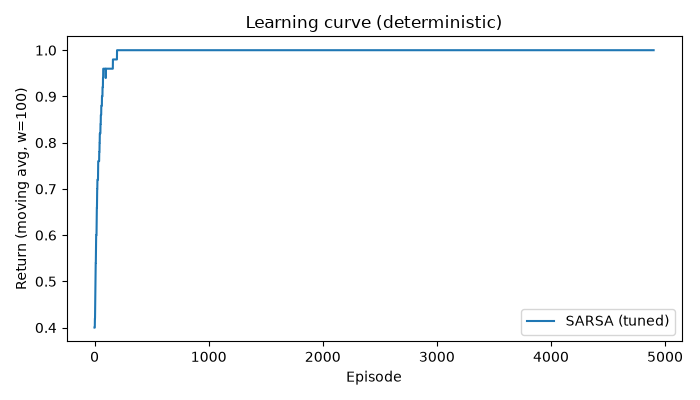
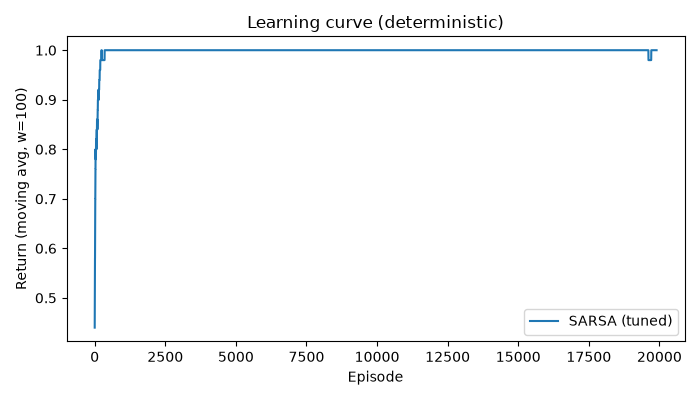
Slight Modifications + Final Commit

diff --git a/assignment1/algorithms/sarsa.py b/assignment1/algorithms/sarsa.py
@@ -4,81 +4,95 @@ from pathlib import Path
 import numpy as np
 import matplotlib.pyplot as plt
 
-# env.py and tools.py live in assignment1/ (parent of algorithms/); env.py itself does `import tools`
+# Imports setups
 sys.path.insert(0, str(Path(__file__).resolve().parent.parent))
-sys.path.insert(0, str(Path(__file__).resolve().parent))  # tuning.py lives next to this file
+sys.path.insert(0, str(Path(__file__).resolve().parent))
 
 import tools
 from env import GridworldEnv
 from tuning import tune as optuna_tune, td_space
 
-GAMMA_EVAL = 0.99  # fixed discount used to SCORE policies (shorter paths score higher)
+GAMMA_EVAL = 0.99  # fixed discount used to SCORE policies
 
 
-def eps_greedy(Q, s, eps):
-    """epsilon-greedy action from Q (random tie-breaking among greedy actions)."""
-    if np.random.rand() < eps:
-        return np.random.randint(Q.shape[1])
-    best = np.flatnonzero(np.isclose(Q[s], Q[s].max()))
-    return int(np.random.choice(best))
+def eps_greedy_fast(Q_s, eps, n_actions, rng):
+    """Fast epsilon-greedy action selection with minimal allocations."""
+    if rng.random() < eps:
+        return rng.integers(n_actions)
+    # Fast greedy selection with tie-breaking
+    max_val = Q_s.max()
+    best = np.flatnonzero(np.isclose(Q_s, max_val))
+    return int(rng.choice(best)) if len(best) > 1 else int(best[0])
 
 
-def sarsa(env, n_episodes=5000, alpha=0.1, gamma=0.99, eps=1.0,
+def sarsa(env, n_episodes=20000, alpha=0.1, gamma=0.99, eps=1.0,
           eps_min=0.05, eps_decay=0.999, max_steps=200, seed=0):
-    """On-policy TD control: q(s,a) <- q(s,a) + alpha [r + gamma q(s',a') - q(s,a)]."""
-    Q = np.zeros((env.n_states, env.n_actions))
-    returns = np.zeros(n_episodes)
-    env.reset(seed=seed)
+    """On-policy TD control."""
+    rng = np.random.default_rng(seed)
+    n_states, n_actions = env.n_states, env.n_actions
+    Q = np.zeros((n_states, n_actions), dtype=np.float64)
+    returns = np.zeros(n_episodes, dtype=np.float64)
 
     for ep in range(n_episodes):
-        s, _ = env.reset()
-        a = eps_greedy(Q, s, eps)
+        s, _ = env.reset(seed=int(rng.integers(1e6)) if ep == 0 else None)
+        a = eps_greedy_fast(Q[s], eps, n_actions, rng)
         G = 0.0
-        for _ in range(max_steps):
+
+        for step in range(max_steps):
             s2, r, term, trunc, _ = env.step(a)
             G += r
-            if term:
-                target = r  # q(terminal, .) = 0
-                Q[s, a] += alpha * (target - Q[s, a])
+            
+            if term or trunc:
+                # Terminal state target is r (Q(terminal, .) = 0)
+                Q[s, a] += alpha * (r - Q[s, a])
                 break
-            a2 = eps_greedy(Q, s2, eps)
-            target = r + gamma * Q[s2, a2]
-            Q[s, a] += alpha * (target - Q[s, a])
+
+            a2 = eps_greedy_fast(Q[s2], eps, n_actions, rng)
+            Q[s, a] += alpha * (r + gamma * Q[s2, a2] - Q[s, a])
             s, a = s2, a2
+
         returns[ep] = G
         eps = max(eps_min, eps * eps_decay)
+
     return Q, returns
 
 
-def greedy_action(Q, s, rng):
-    """argmax_a Q[s, a] with random tie-breaking (same as q-learning.py)."""
-    best = np.flatnonzero(np.isclose(Q[s], Q[s].max()))
-    return int(rng.choice(best))
-
-
 def evaluate(env, Q, n_episodes=1000, max_steps=200, gamma=GAMMA_EVAL):
-    """Greedy-policy evaluation: (mean DISCOUNTED return, goal rate, pit rate).
-    Discounting makes the score sensitive to path length, so it no longer
-    saturates at 1.0 for every policy that eventually reaches the goal."""
+    """Optimized greedy-policy evaluation."""
     rng = np.random.default_rng(123)
-    rets, goals, pits = [], 0, 0
-    for _ in range(n_episodes):
+    rets = np.zeros(n_episodes, dtype=np.float64)
+    goals, pits = 0, 0
+    
+    # Pre-calculate greedy policy to avoid inline argmax/isclose overhead
+    # Pre-break ties deterministically or once statically
+    max_vals = Q.max(axis=1, keepdims=True)
+    is_best = np.isclose(Q, max_vals)
+    
+    # Precompute discount factors: gamma^0, gamma^1, ..., gamma^(max_steps-1)
+    discounts = gamma ** np.arange(max_steps)
+
+    for ep in range(n_episodes):
         s, _ = env.reset()
         G = 0.0
         for t in range(max_steps):
-            s, r, term, trunc, _ = env.step(greedy_action(Q, s, rng))
-            G += (gamma ** t) * r
-            if term:
-                goals += r > 0
-                pits += r < 0
+            best_actions = np.flatnonzero(is_best[s])
+            a = int(rng.choice(best_actions)) if len(best_actions) > 1 else int(best_actions[0])
+            
+            s, r, term, trunc, _ = env.step(a)
+            G += discounts[t] * r
+
+            if term or trunc:
+                goals += int(r > 0)
+                pits += int(r < 0)
                 break
-        rets.append(G)
-    return np.mean(rets), goals / n_episodes, pits / n_episodes
+        rets[ep] = G
+
+    return rets.mean(), goals / n_episodes, pits / n_episodes
 
 
 def value_iteration(env, gamma=0.99, tol=1e-10):
-    """Ground truth Q* from env.P (used to verify the learned Q)."""
-    Q = np.zeros((env.n_states, env.n_actions))
+    """Ground truth Q* from env.P."""
+    Q = np.zeros((env.n_states, env.n_actions), dtype=np.float64)
     while True:
         V = Q.max(axis=1)
         Q_new = np.zeros_like(Q)
@@ -95,10 +109,10 @@ def moving_average(x, w=100):
     return np.convolve(x, np.ones(w) / w, mode="valid")
 
 
-N_EPISODES = 5000
+N_EPISODES = 20000
 N_TRIALS = 40
 N_SEEDS = 2
-EVAL_SEEDS = range(10, 15)  # seeds (unseen during tuning) for the final before/after report
+EVAL_SEEDS = range(10, 15)
 
 DEFAULT_PARAMS = {
     "alpha": 0.1,
@@ -109,8 +123,7 @@ DEFAULT_PARAMS = {
 
 
 def evaluate_params(env, params, seeds=EVAL_SEEDS):
-    """Trains one SARSA agent per seed and averages the metrics (same ones as the Q-learning report).
-    'greedy avg return' is the DISCOUNTED greedy return (GAMMA_EVAL), i.e. the tuning objective."""
+    """Trains SARSA agents and computes metrics against ground truth."""
     Q_star = value_iteration(env, gamma=params["gamma"])
     valid = [s for s in range(env.n_states)
              if s != env.wall_state and s not in env.terminal_states]
@@ -125,11 +138,11 @@ def evaluate_params(env, params, seeds=EVAL_SEEDS):
         greedy.append(evaluate(env, Q, n_episodes=1000, gamma=GAMMA_EVAL)[0])
 
     return {
-        "max |Q - Q*|": np.mean(errs),
-        "states with optimal act. (%)": 100 * np.mean(matches),
-        "V(start) learned": np.mean(v_start),
-        "V(start) true": Q_star[env.start_state].max(),
-        "greedy avg return": np.mean(greedy),
+        "max |Q - Q*|": float(np.mean(errs)),
+        "states with optimal act. (%)": 100 * float(np.mean(matches)),
+        "V(start) learned": float(np.mean(v_start)),
+        "V(start) true": float(Q_star[env.start_state].max()),
+        "greedy avg return": float(np.mean(greedy)),
     }
 
 
@@ -140,9 +153,6 @@ def print_report(params, metrics):
 
 
 def tune(slippery):
-    """Optuna search via the shared tuning module.
-    Score = DISCOUNTED greedy return with a fixed GAMMA_EVAL, so trials are
-    ranked by path efficiency instead of tying at 1.0."""
     env = GridworldEnv(is_slippery=slippery)
     return optuna_tune(
         train_fn=lambda seed, **p: sarsa(env, n_episodes=N_EPISODES, seed=seed, **p)[0],
@@ -162,32 +172,26 @@ if __name__ == "__main__":
 
         print(f"\n{'=' * 60}\n=== {mode.upper()} ===\n{'=' * 60}")
 
-        # ---------- BEFORE tuning ----------
         print("\n--- BEFORE tuning (default hyperparameters) ---")
         before = evaluate_params(env, DEFAULT_PARAMS)
         print_report(DEFAULT_PARAMS, before)
 
-        # ---------- Optuna tuning ----------
         best = tune(slippery)
 
-        # ---------- AFTER tuning ----------
         print("\n--- AFTER tuning (Optuna best hyperparameters) ---")
         after = evaluate_params(env, best)
         print_report(best, after)
 
-        # ---------- Comparison ----------
         print("\n--- BEFORE vs AFTER ---")
         print(f"  {'metric':<30}{'before':>12}{'after':>12}")
         for k in before:
             print(f"  {k:<30}{before[k]:>12.4f}{after[k]:>12.4f}")
 
-        # ---------- Plots with the tuned agent ----------
         Q, rets = sarsa(env, n_episodes=N_EPISODES, **best)
         name = "SARSA (tuned)"
         tools.plot_policy(Q.argmax(axis=1), env, title=f"{name} policy ({mode})")
         tools.plot_value_function(Q.max(axis=1), env, title=f"{name} V(s) = max_a Q ({mode})")
 
-        # learning curve drawn after the tools' plt.show() calls (they open/close their own figures)
         plt.figure(figsize=(7, 4))
         plt.plot(moving_average(rets), label=name)
         plt.xlabel("Episode")

diff --git a/assignment1/algorithms/q_learning.py b/assignment1/algorithms/q_learning.py
@@ -22,7 +22,7 @@ DEFAULT_PARAMS = {
     "alpha": 0.1,
     "gamma": 0.99,
     "eps_end": 0.05,
-    "eps_decay": 0.9997,
+    "eps_decay": 0.999,
 }
 
 
@@ -47,7 +47,7 @@ def q_learning(
     gamma=0.99,
     eps_start=1.0,
     eps_end=0.05,
-    eps_decay=0.9997,
+    eps_decay=0.999,
     max_steps=200,
     seed=0,
 ):
